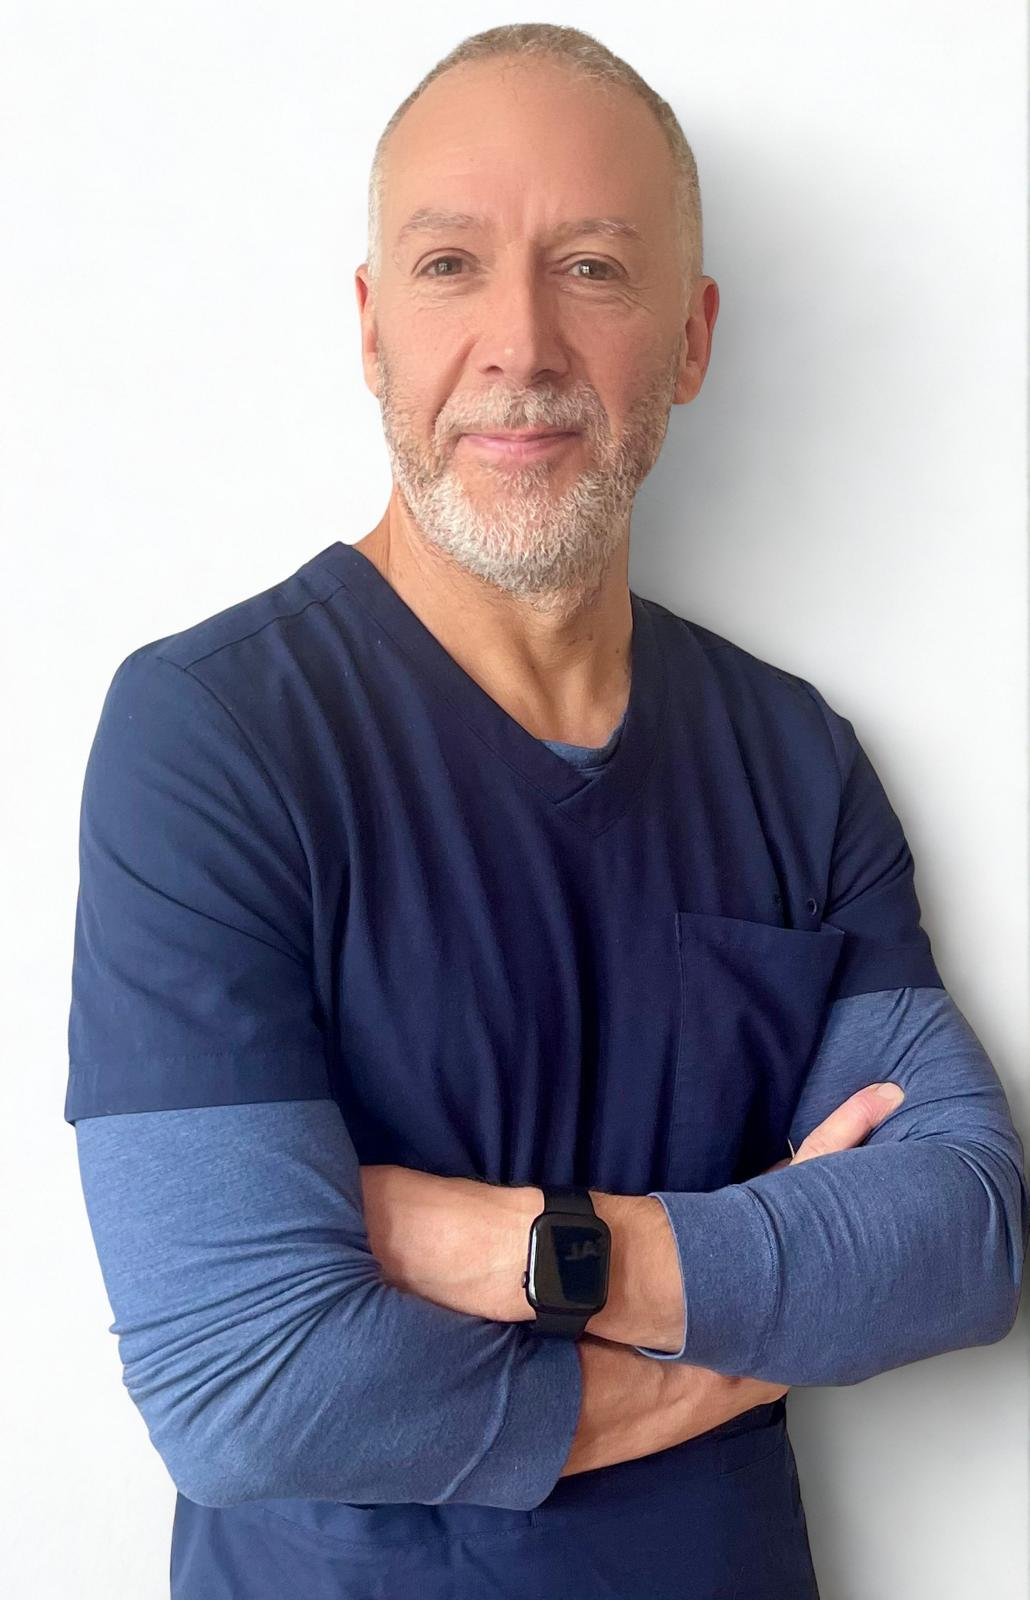
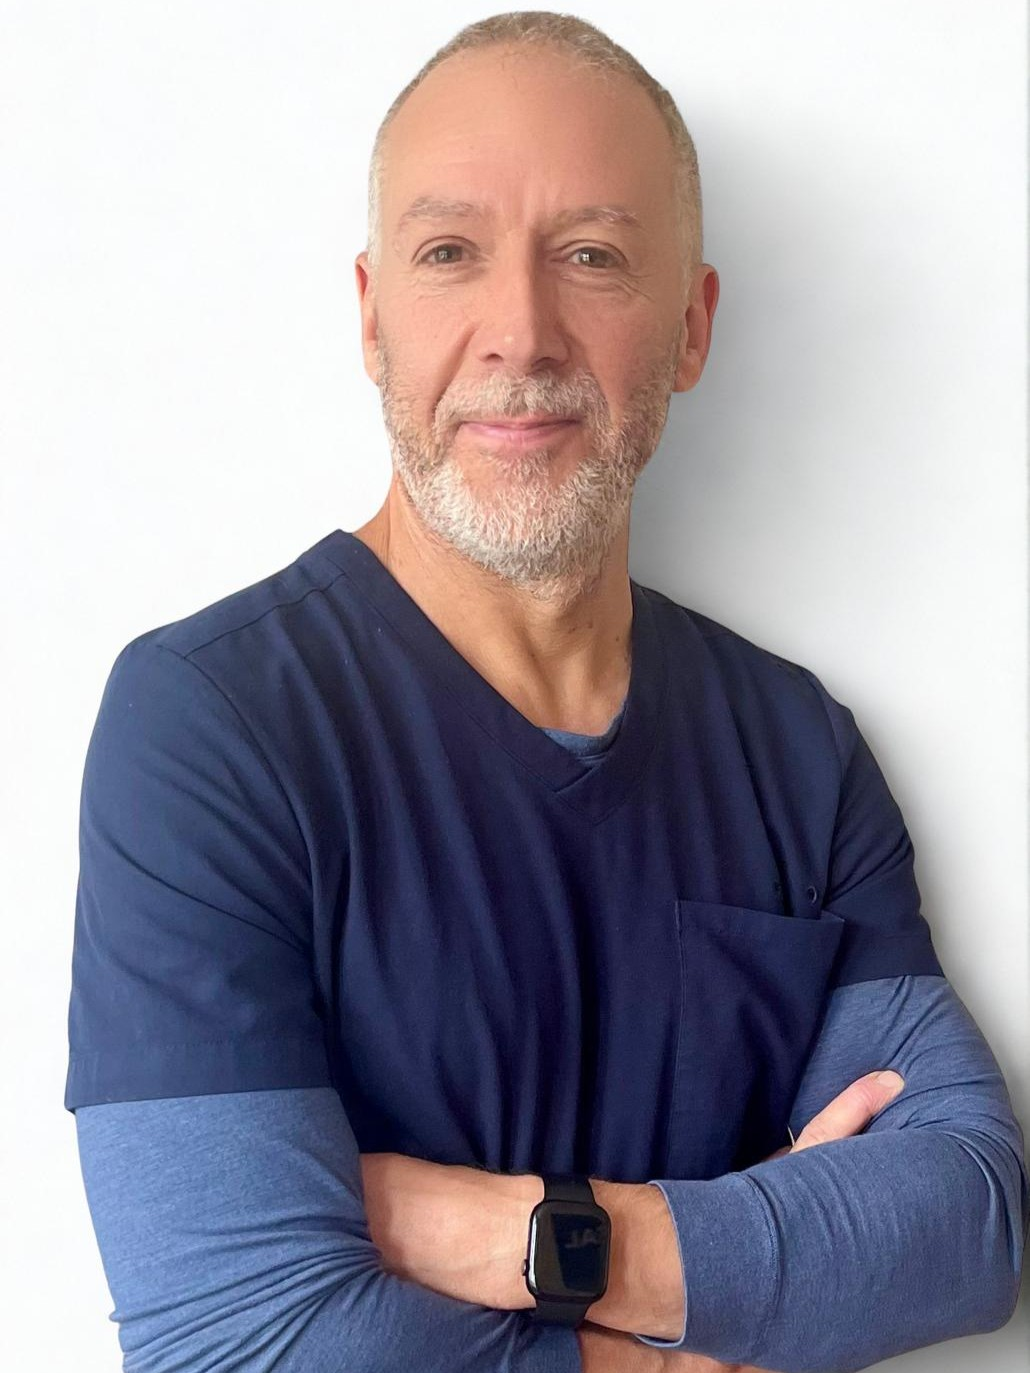
set image update for team

diff --git a/client/src/pages/meetTheTeam/MeetTheTeam.js b/client/src/pages/meetTheTeam/MeetTheTeam.js
@@ -1,5 +1,5 @@
 import austin from "../../images/austinFull.jpg";
-import austin4 from "../../images/austin4.jpeg";
+import austin4 from "../../images/newImg4.jpeg";
 import claire from "../../images/Claire.jpg";
 import adrian from "../../images/Adrian.jpg";
 import TeamCard from "./TeamCard";
